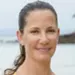
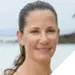
Cut corner out of castaway photos to show tribe color

Changed region(s): [[0.6667, 0.6667, 1.0, 1.0]]

diff --git a/season31/templates/season31/player.html b/season31/templates/season31/player.html
@@ -47,36 +47,36 @@
 	</tr>
 	{% for playerepisode in player.playerepisode_set.all %}
 	{% if not playerepisode.episode.is_locked and player == user.player and playerepisode.episode = player.get_next_episode %}
-	<tr>
-		<td class="noborder padtb4" colspan=17></td>
-	</tr>
-	{% if player.show_help_text %}
-	<tr>
-		<td class="fgblack textleft pad8 noborder" colspan=17>Below are your picks for the next episode.  Your<span class="textbold">Team</span>is on the left and your<span class="textbold">Vote Off Predictions</span>are on the right.<br>You have until<span class="textbold">8:00 PM EST / 5:00 PST</span>to make your picks each week.<br>This form will automatically lock if you refresh after that.</td>
-	</tr>
-	{% endif %}
-	<tr>
-		<td class="columnheader textleft pad4" colspan=17><span class="fggrey halftitle">Next Episode</span><span class="fgred2">{{ playerepisode.episode.time_to_lock }} left</span><span class="fglightgrey">to make changes to your picks</span></td>
-	</tr>
-	<tr>
-		<td class="columnheader"></td>
-		<td class="columnheader fggreen4">Team</td>
-		<td class="columnheader"></td>
-		<td class="columnheader fgred4">Vote Off Picks</td>
-		<td class="columnheader"></td>
-		<td class="columnheader fglightgrey">LB</td>
-		<td class="columnheader"></td>
-		<td class="columnheader fglightgrey">Action</td>
-		<td class="columnheader fglightgrey">Vote Off</td>
-		<td class="columnheader fglightgrey">JSP</td>
-		<td class="columnheader"></td>
-		<td class="columnheader fglightgrey">Week</td>
-		<td class="columnheader"></td>
-		<td class="columnheader fglightgrey">±</td>
-		<td class="columnheader fglightgrey">Plc</td>
-		<td class="columnheader fglightgrey">Score</td>
-		<td class="columnheader"></td>
-	</tr>
+		<tr>
+			<td class="noborder padtb4" colspan=17></td>
+		</tr>
+		{% if player.show_help_text %}
+			<tr>
+				<td class="fgblack textleft pad8 noborder" colspan=17>Below are your picks for the next episode.  Your<span class="textbold">Team</span>is on the left and your<span class="textbold">Vote Off Predictions</span>are on the right.<br>You have until<span class="textbold">8:00 PM EST / 5:00 PST</span>to make your picks each week.<br>This form will automatically lock if you refresh after that.</td>
+			</tr>
+			<tr>
+				<td class="columnheader textleft pad4" colspan=17><span class="fggrey halftitle">Next Episode</span><span class="fgred2">{{ playerepisode.episode.time_to_lock }} left</span><span class="fglightgrey">to make changes to your picks</span></td>
+			</tr>
+		{% endif %}
+		<tr>
+			<td class="columnheader"></td>
+			<td class="columnheader fggreen4">Team</td>
+			<td class="columnheader"></td>
+			<td class="columnheader fgred4">Vote Off Picks</td>
+			<td class="columnheader"></td>
+			<td class="columnheader fglightgrey">LB</td>
+			<td class="columnheader"></td>
+			<td class="columnheader fglightgrey">Action</td>
+			<td class="columnheader fglightgrey">Vote Off</td>
+			<td class="columnheader fglightgrey">JSP</td>
+			<td class="columnheader"></td>
+			<td class="columnheader fglightgrey">Week</td>
+			<td class="columnheader"></td>
+			<td class="columnheader fglightgrey">±</td>
+			<td class="columnheader fglightgrey">Plc</td>
+			<td class="columnheader fglightgrey">Score</td>
+			<td class="columnheader"></td>
+		</tr>
 	{% endif %}
 	{% if playerepisode.episode.is_locked or player == user.player%}
 	<tr>

diff --git a/season31/templates/season31/castaways.html b/season31/templates/season31/castaways.html
@@ -86,7 +86,7 @@
 	{% for castaway in castaways %}
 	<tr>
 		<td class="columnheader fgwhite textright"><a href="{% url 'season31:castaway' castaway.id %}" class="fgwhite">{{ castaway }}</a></td>
-		<td class="columnheader fgwhite textright pad0"><img src="{% static 'season31/images/photos/'%}{{ castaway.name }}.png" title="{{ castaway.name }}" class="castawayimgsmall" /></td>
+		<td class="bgtribe{{ castaway.get_tribe.color }} fgwhite textright pad0"><img src="{% static 'season31/images/photos/'%}{{ castaway.name }}.png" title="{{ castaway.name }}" class="castawayimgsmall" /></td>
 		<td>{{ castaway.age }}</td>
 		<td>{{ castaway.occupation }}</td>
 		{% for ce in castaway.castawayepisode_set.all %}

diff --git a/season31/templates/season31/leaderboard.html b/season31/templates/season31/leaderboard.html
@@ -27,7 +27,7 @@
 				{% for pick in playerepisode.get_team_picks %}
 				<div class="bgtribe{{ pick.castaway_episode.tribe.color }} floatleft pad0 marg0" title="{{ pick.castaway }}">
 					<a href="{% url 'season31:castaway' pick.castaway.id %}" class="fgblack pad0 marg0 ">
-						<img src="{% static 'season31/images/photos/'%}{{ pick.castaway.name }}.png" title="{{ pick.castaway.name }}" class="castawayimgsmall" />
+						<img src="{% static 'season31/images/photos/'%}{{ pick.castaway.name }}.png" title="{{ pick.castaway.name }}" class="castawayimgsmall pad0 marg0" />
 					</a>
 				</div>
 				{% endfor %}

diff --git a/season31/templates/season31/castaway.html b/season31/templates/season31/castaway.html
@@ -10,12 +10,11 @@
 </div>
 <div class="content floatleft marg0">
 
-<div class="floatleft">
+<div class="floatleft pad0 bgtribe{{ castaway.get_tribe.color }}">
 	<img src="{% static 'season31/images/photos/'%}{{ castaway.name }}.png" title="{{ castaway.name }}" class="border" />
 </div>
 <div>
 	<span class="title">{{ castaway.full_name }}</span>
-	<span class="subtitle fg{{ castaway.get_tribe }}">{{ castaway.get_tribe }}</span>
 	<div class="subtitle">{{ castaway.occupation }}, Age {{ castaway.age }}</div>
 </div>
 
